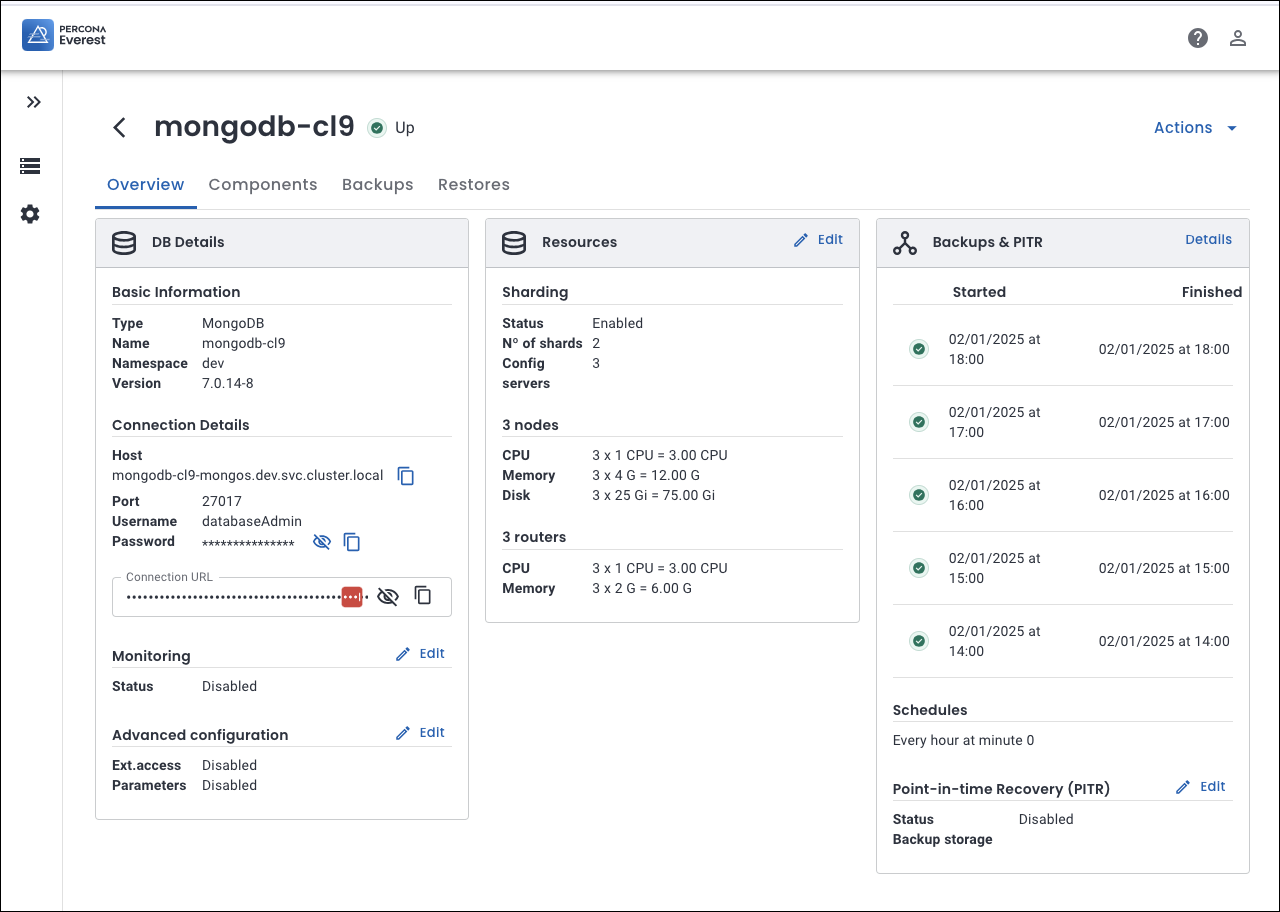
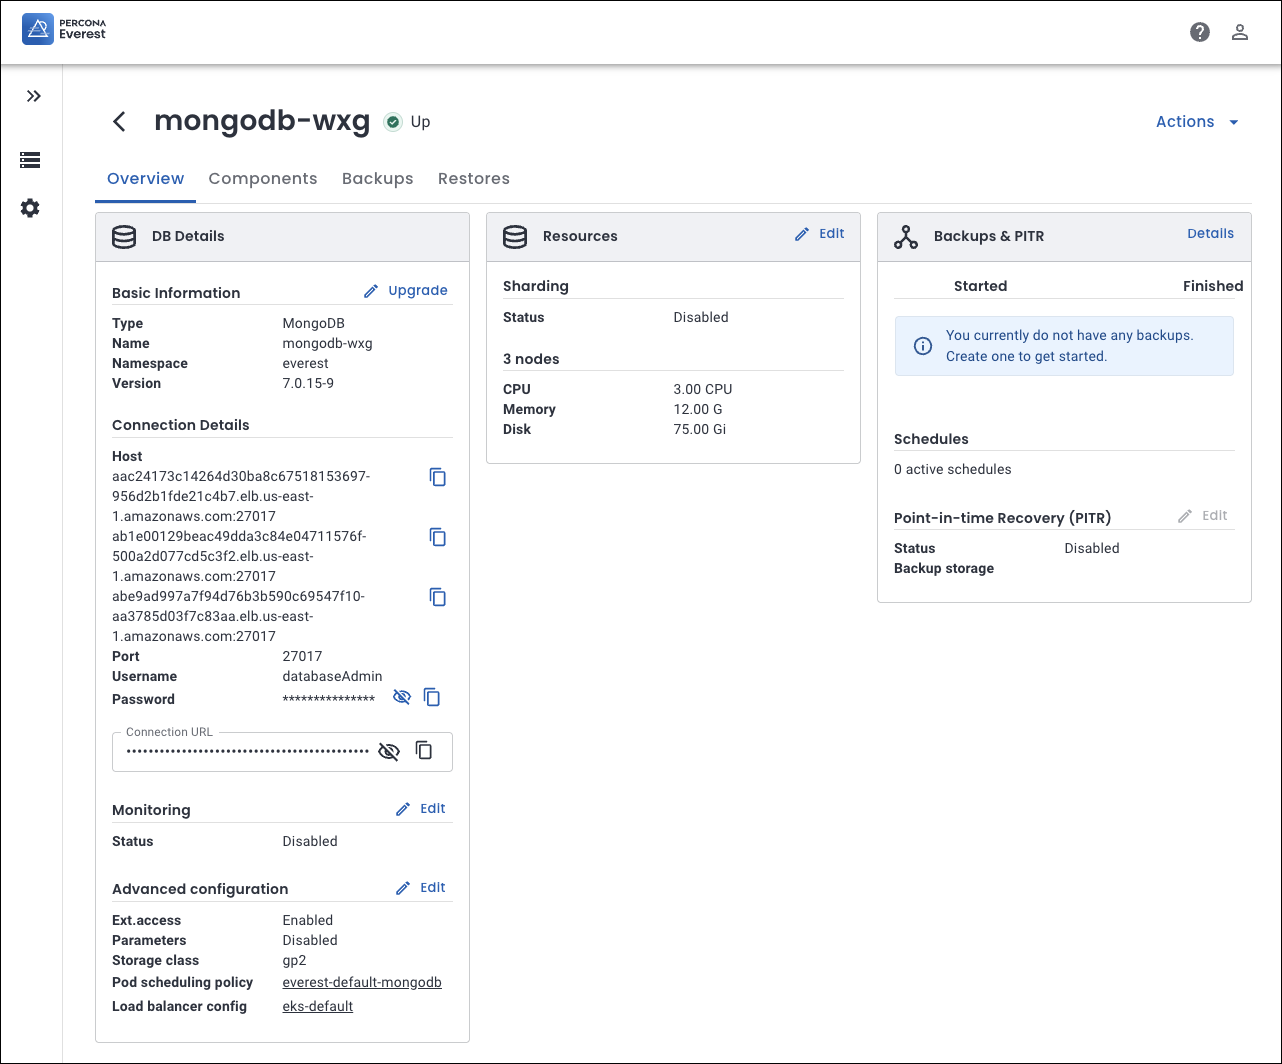
updated the advan ced config section

diff --git a/docs/use/db_provision.md b/docs/use/db_provision.md
@@ -87,7 +87,14 @@ To provision a new database:
 
 8. Click **Continue**. The **Advanced Configurations** page will be displayed.
 
-9. On the **Advanced Configurations** page, you can enable external access and customise database engine parameters by turning the toggle on. For in-depth information, see the [configure database engine](../use/db_engine_config.md) section.
+9. On the **Advanced Configurations** page, you can select the following:
+
+    - Storage: Define the type and performance of storage for your database
+    - Pod scheduling policy: Enable and configure a scheduling policy to control how pods are placed across nodes.
+    - Exposure method: Choose how the database is exposed (e.g., ClusterIP or LoadBalancer).
+    - Database engine parameters: Enable and customize advanced engine parameters for fine-tuned control.
+
+For in-depth information, see the [configure database engine](../use/db_engine_config.md) section.
 
 10. Click **Continue**. The **Monitoring** page will be displayed.
 
